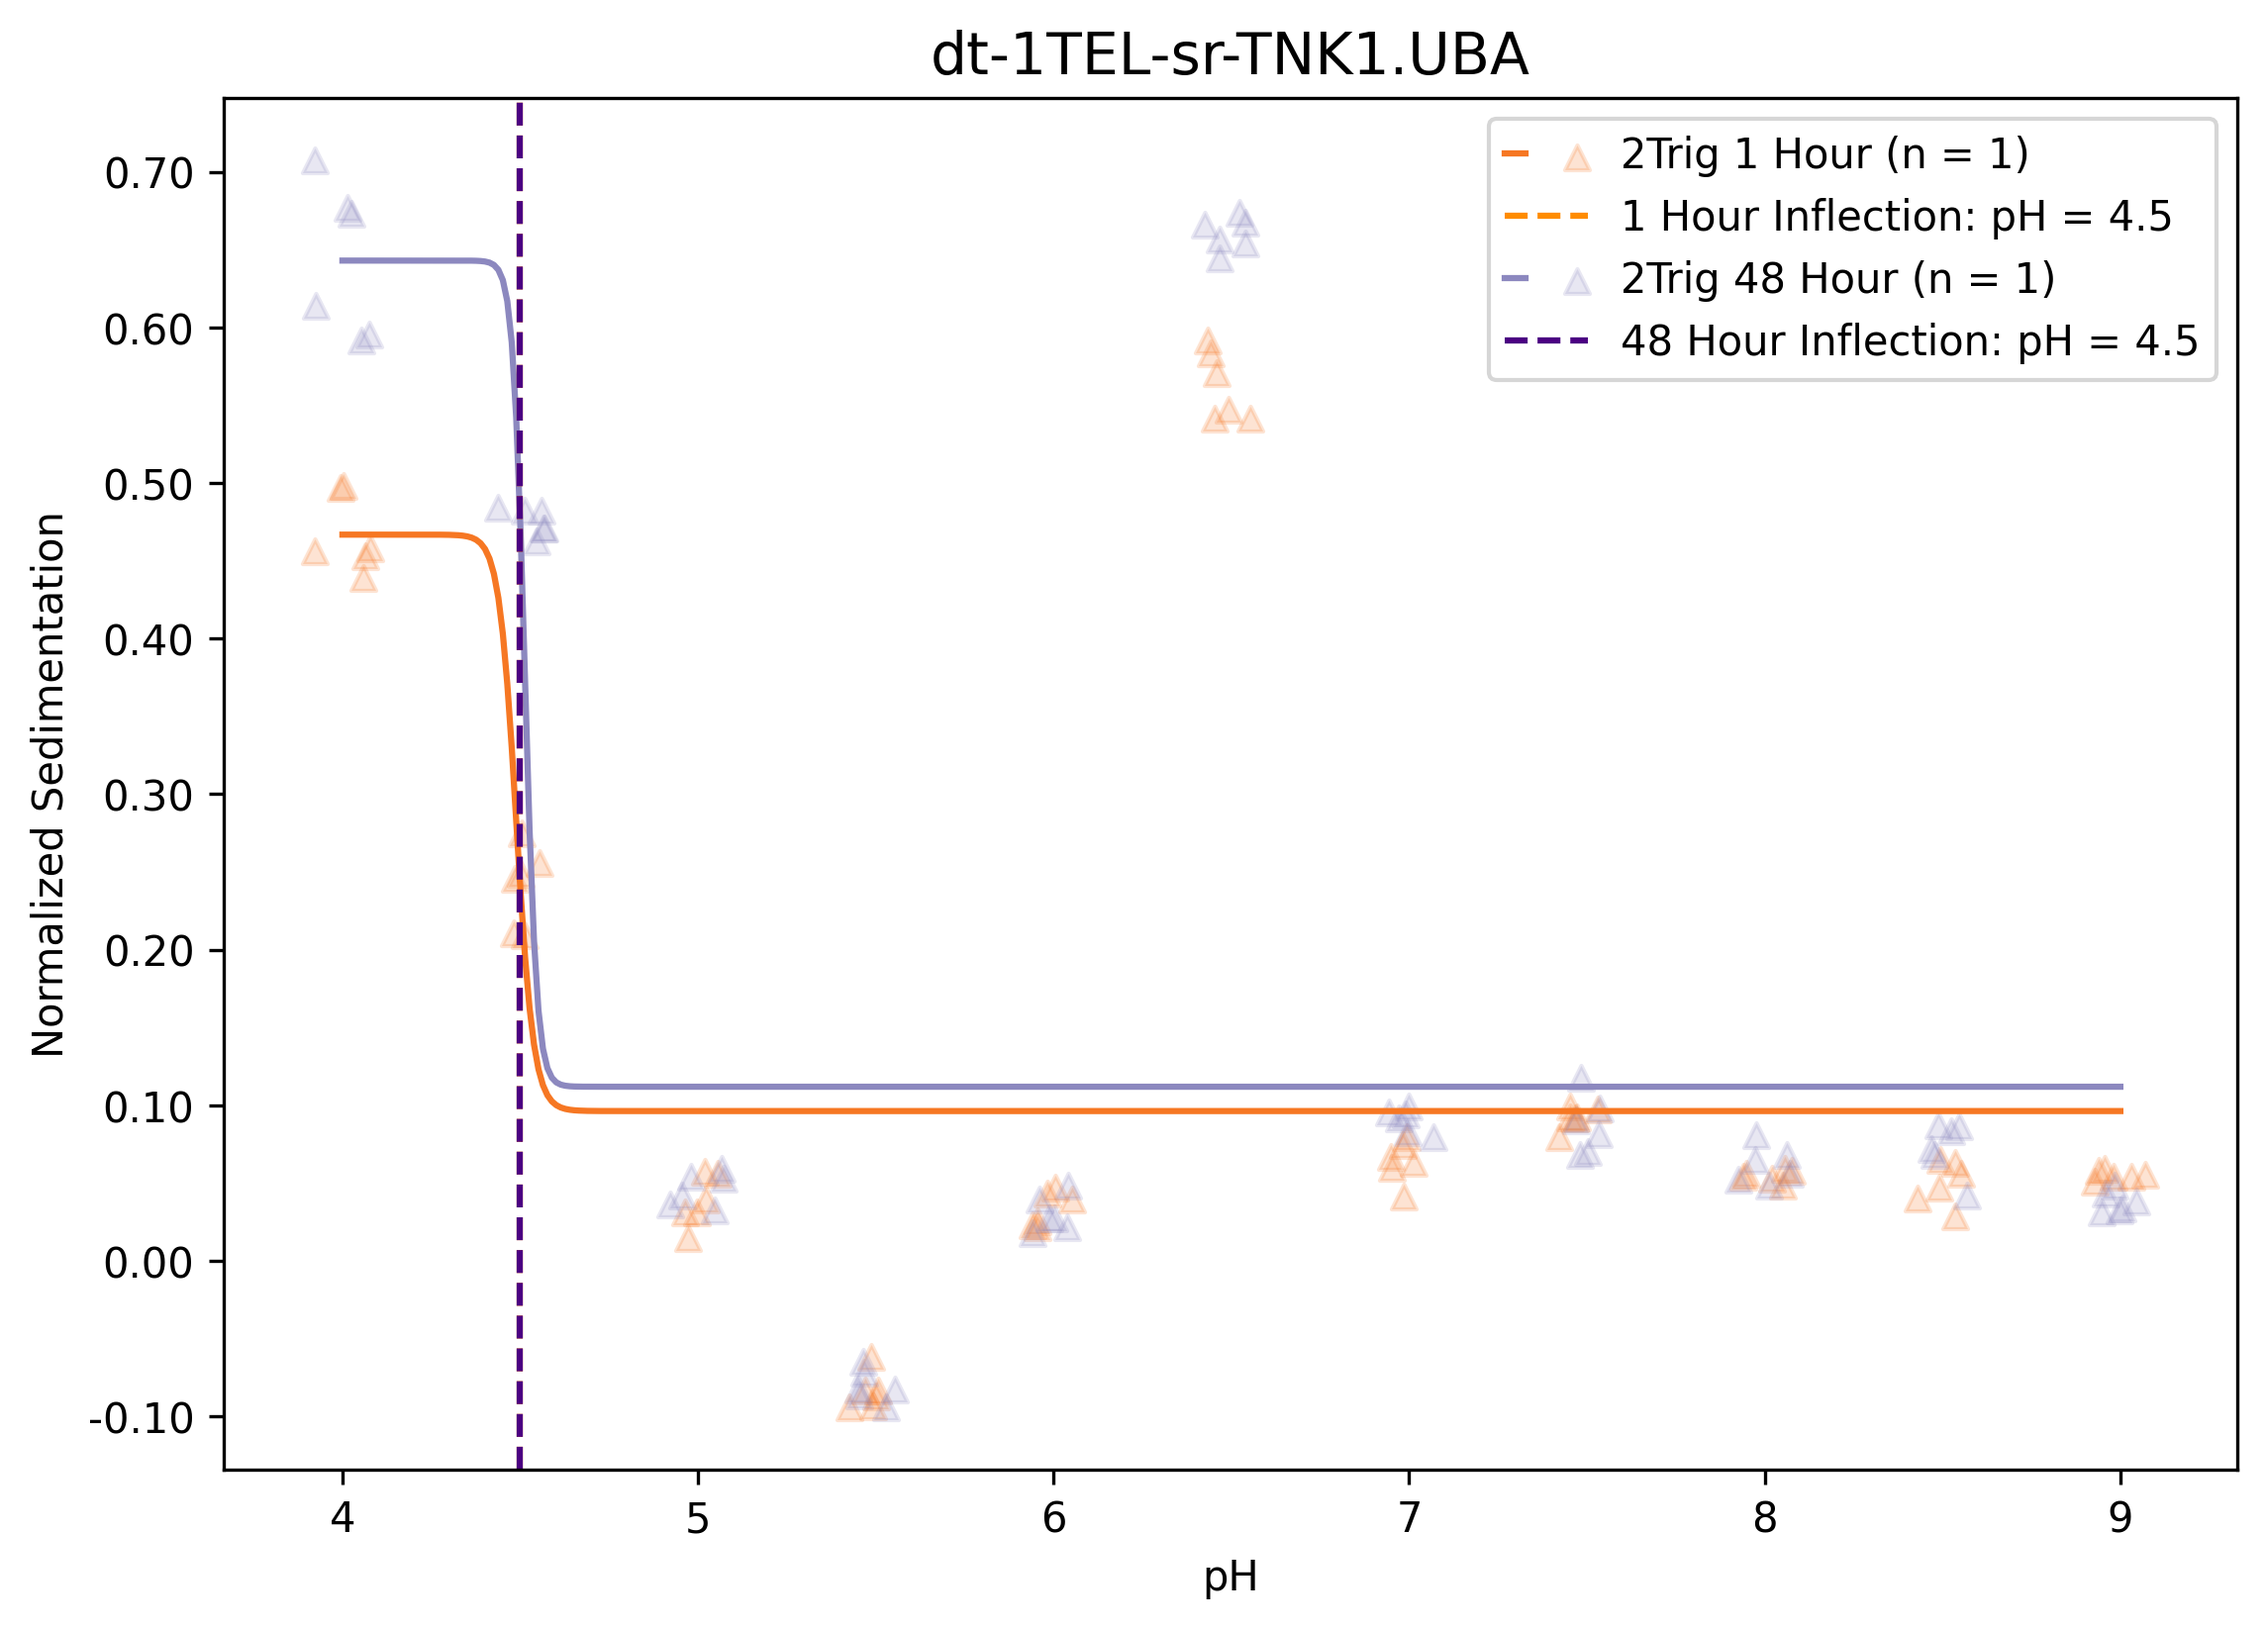
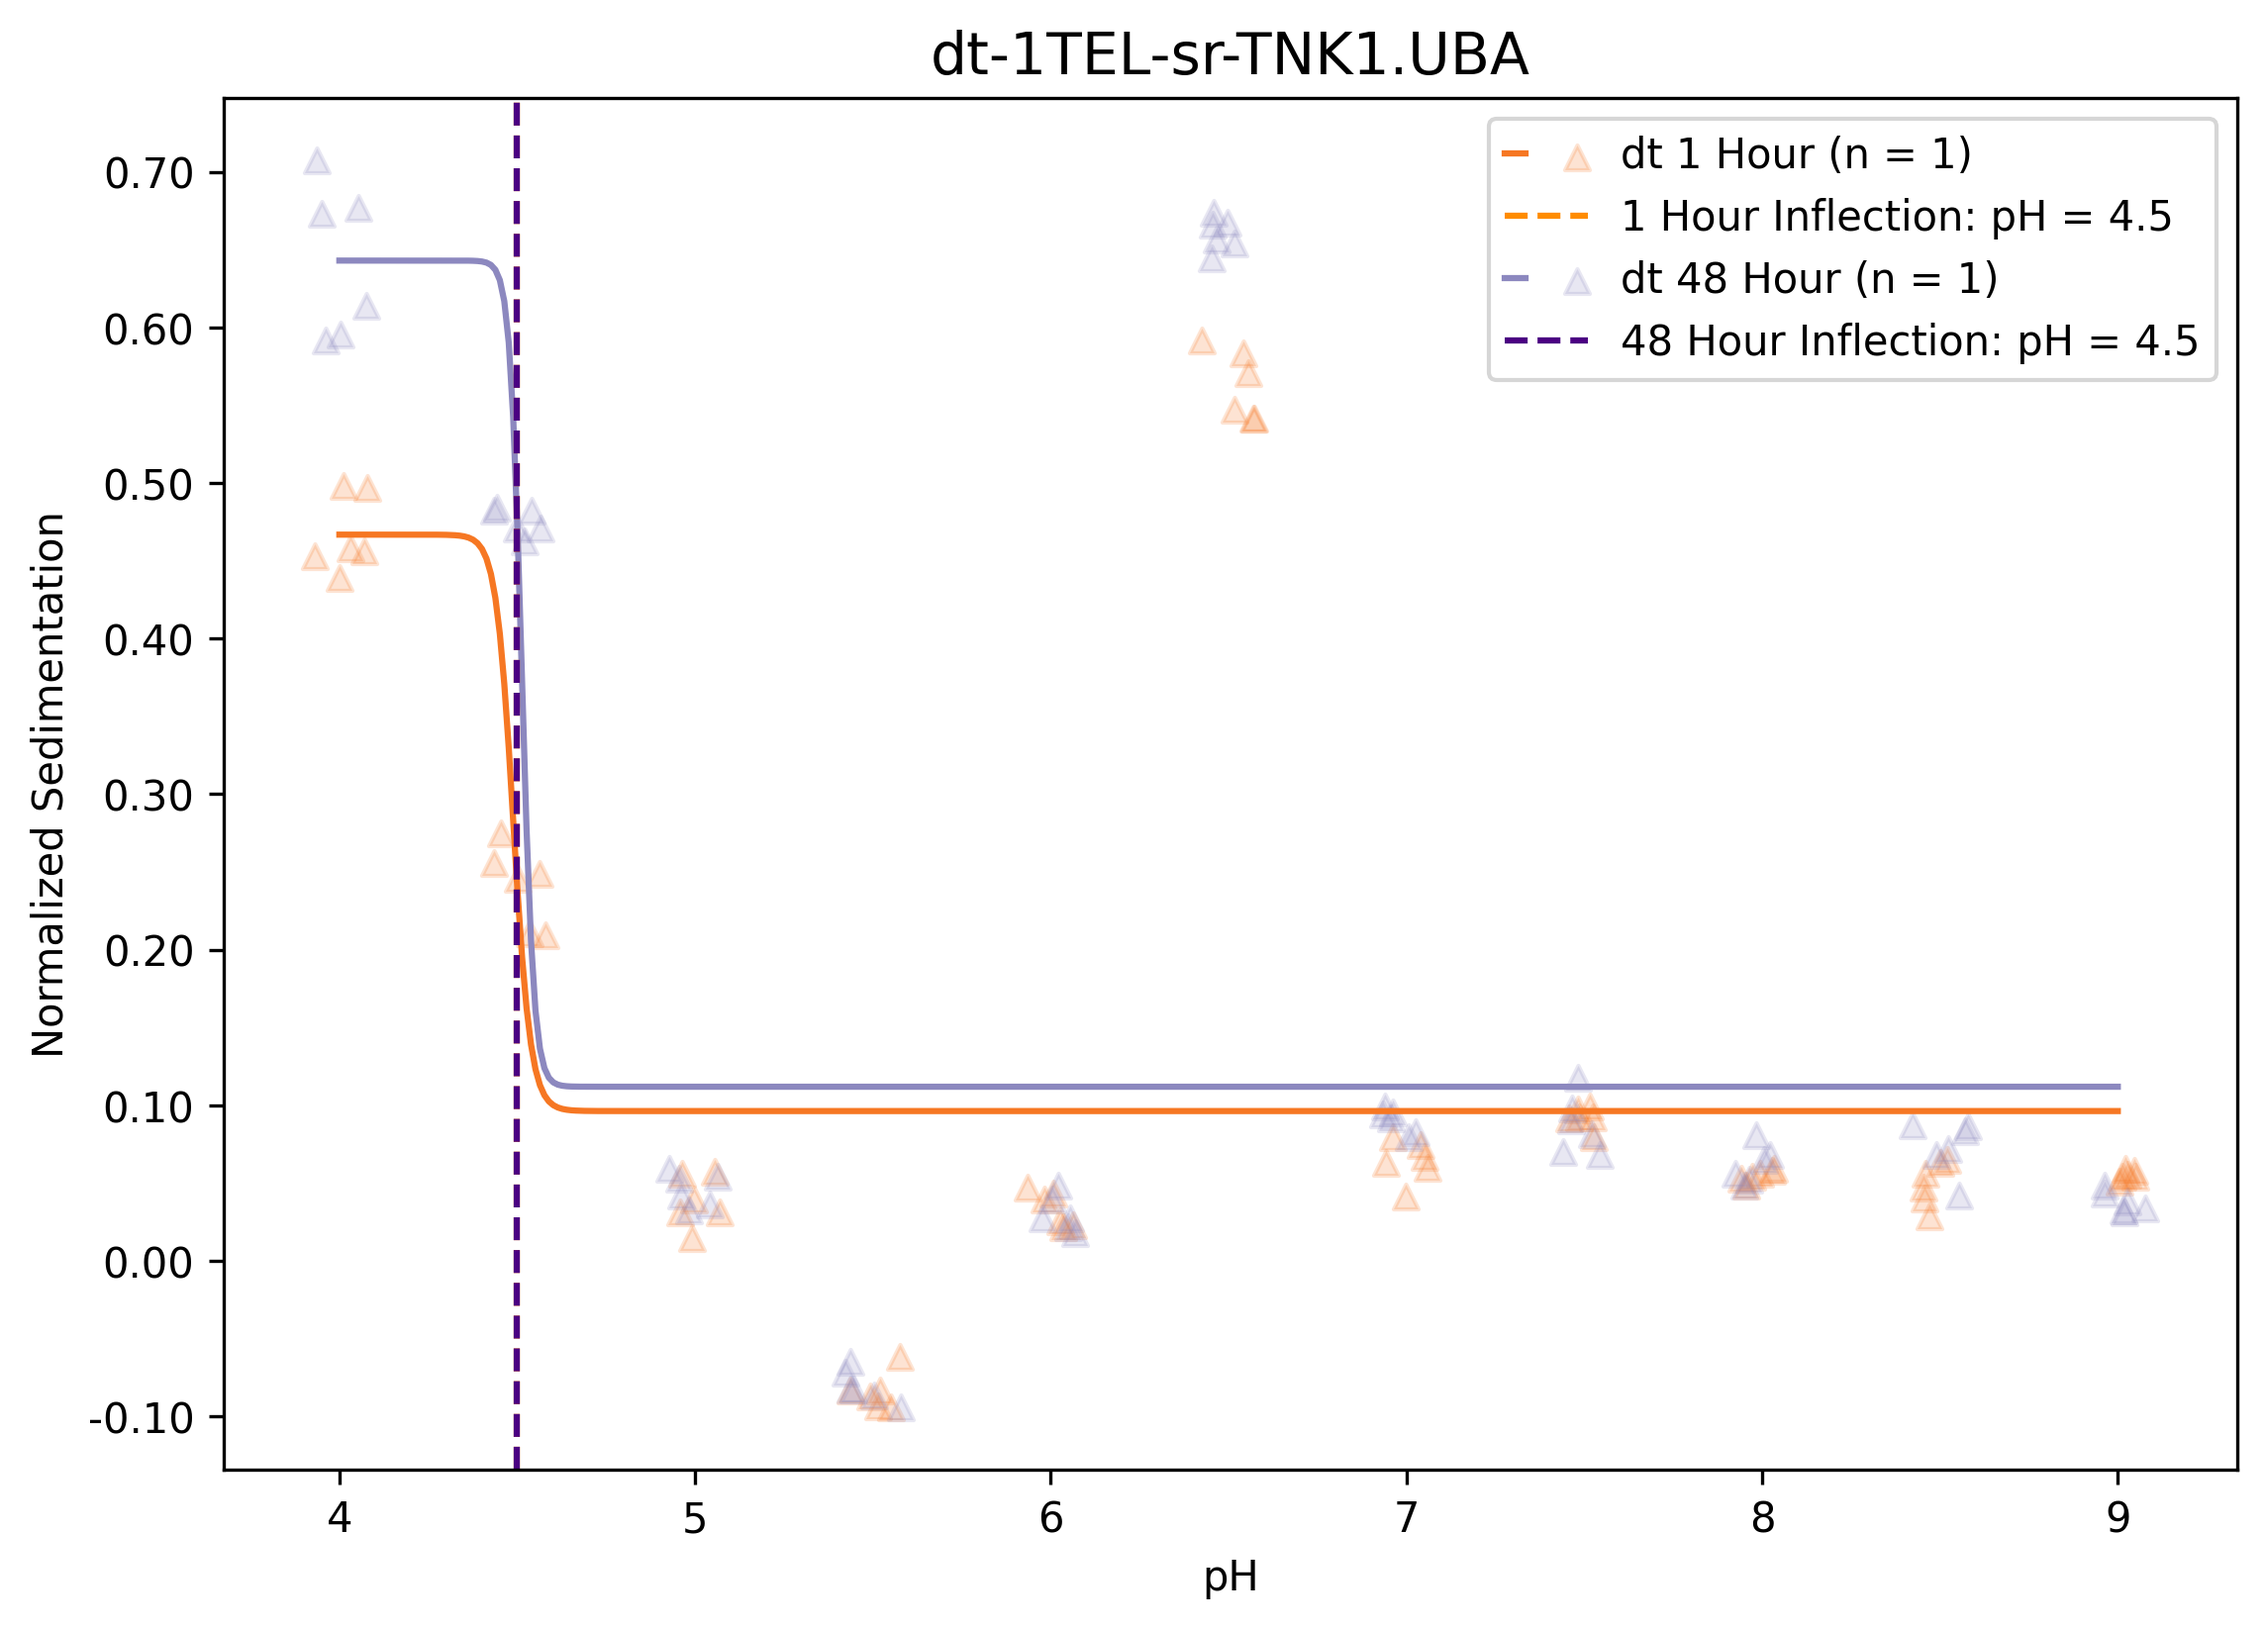
fixed dt labels in legends

diff --git a/process.py b/process.py
@@ -132,7 +132,7 @@ def format_legend_label(construct, test_name, protein_constructs, tests, n):
         elif "Knockout" in construct:
             base_label = "Knockout"
         else:
-            base_label = "2Trig" if is_2trig else "1Trig"
+            base_label = "dt" if is_2trig else "st"
         if is_solubility:
             label = f"{base_label} {time_label_from_test(test_name)}"
         else:
@@ -144,7 +144,7 @@ def format_legend_label(construct, test_name, protein_constructs, tests, n):
         elif is_gravity:
             trig_label = "Gravity"
         else:
-            trig_label = "2Trig" if is_2trig else "1Trig"
+            trig_label = "dt" if is_2trig else "st"
         label = f"{trig_label} {time_label_from_test(test_name)}"
     # Case 3: one replicate / one construct / one test
     elif len(protein_constructs) == 1 and len(tests) == 1:
@@ -153,7 +153,7 @@ def format_legend_label(construct, test_name, protein_constructs, tests, n):
         elif is_gravity:
             base_label = "Gravity"
         else:
-            base_label = "2Trig" if is_2trig else "1Trig"
+            base_label = "dt" if is_2trig else "st"
         if is_solubility:
             label = f"{base_label} {time_label_from_test(test_name)}"
         else:
@@ -632,7 +632,7 @@ def statisticize(proteins_and_tests:list,plot_singly=False,plot=False,tailored=F
                                 color=stderr_color, alpha=0.12)
                             handles_and_labels[stderr_handle] = f"{behavior_label_from_behavior_id(behavior_id)} +/- 1 st. err."
                             legend_groups["group1_stderr"].append(stderr_handle)
-                        inflection_handle = plt.axvline(inflection_value,color=behavior_colors[behavior_id],linestyle=":")
+                        inflection_handle = plt.axvline(inflection_value,color=behavior_colors[behavior_id],linestyle="--")
                         inflection_handles_and_labels[inflection_handle] = (
                             f"{behavior_label_from_behavior_id(behavior_id)} Inflection: "
                             f"{format_inflection_label('', inflection_value).replace(': ', '').strip()}")
@@ -686,19 +686,19 @@ def statisticize(proteins_and_tests:list,plot_singly=False,plot=False,tailored=F
                             stderr_label = f"1Trig {time_label_from_test(test_name)} +/- 1 st. err."
                         elif test_name in ["A280_48hr", "A280_72hr"] and "2Trig" in construct:
                             stderr_handle = plt.fill_between(pH_values_display, stderr_lower_bounds, stderr_upper_bounds, color='mediumpurple', alpha=0.20)
-                            stderr_label = f"2Trig {time_label_from_test(test_name)} +/- 1 st. err."
+                            stderr_label = f"dt {time_label_from_test(test_name)} +/- 1 st. err."
                         elif "2Trig" in construct and test_name == 'A280_1hr':
                             stderr_handle = plt.fill_between(pH_values_display, stderr_lower_bounds, stderr_upper_bounds, color='tomato', alpha=0.20)
-                            stderr_label = "2Trig 1 Hour +/- 1 st. err."
+                            stderr_label = "dt 1 Hour +/- 1 st. err."
                         elif "2Trig" in construct:
                             stderr_handle = plt.fill_between(pH_values_display, stderr_lower_bounds, stderr_upper_bounds, color='tomato', alpha=0.20)
-                            stderr_label = "2Trig +/- 1 st. err."
+                            stderr_label = "dt +/- 1 st. err."
                         elif test_name == 'A280_1hr' and "2Trig" not in construct:
                             stderr_handle = plt.fill_between(pH_values_display, stderr_lower_bounds, stderr_upper_bounds, color='cyan', alpha=0.20)
-                            stderr_label = "1Trig 1 Hour +/- 1 st. err."
+                            stderr_label = "st 1 Hour +/- 1 st. err."
                         else:
                             stderr_handle = plt.fill_between(pH_values_display, stderr_lower_bounds, stderr_upper_bounds, color='cyan', alpha=0.20)
-                            stderr_label = "1Trig +/- 1 st. err."
+                            stderr_label = "st +/- 1 st. err."
                         handles_and_labels[stderr_handle] = stderr_label
                         group_prefix = classify_legend_group(construct, test_name, protein_constructs, tests)
                         legend_groups[f"{group_prefix}_stderr"].append(stderr_handle)
@@ -1006,12 +1006,12 @@ def statisticize(proteins_and_tests:list,plot_singly=False,plot=False,tailored=F
                 if len(inflection_points_1trig) >= 1:
                     mean_1trig = np.mean(inflection_points_1trig)
                     inflection_1 = plt.axvline(mean_1trig, color=color_1trig, linestyle="--")
-                    inflection_handles_and_labels[inflection_1] = format_inflection_label("1Trig Inflection",mean_1trig)
+                    inflection_handles_and_labels[inflection_1] = format_inflection_label("st Inflection",mean_1trig)
                     legend_groups["group1_inflection"].append(inflection_1)
                 if len(inflection_points_2trig) >= 1:
                     mean_2trig = np.mean(inflection_points_2trig)
                     inflection_2 = plt.axvline(mean_2trig, color=color_2trig, linestyle="--")
-                    inflection_handles_and_labels[inflection_2] = format_inflection_label("2Trig Inflection",mean_2trig)
+                    inflection_handles_and_labels[inflection_2] = format_inflection_label("dt Inflection",mean_2trig)
                     legend_groups["group2_inflection"].append(inflection_2)
                 knockout_inflection_points = (
                     inflection_points_knockout_48hr
